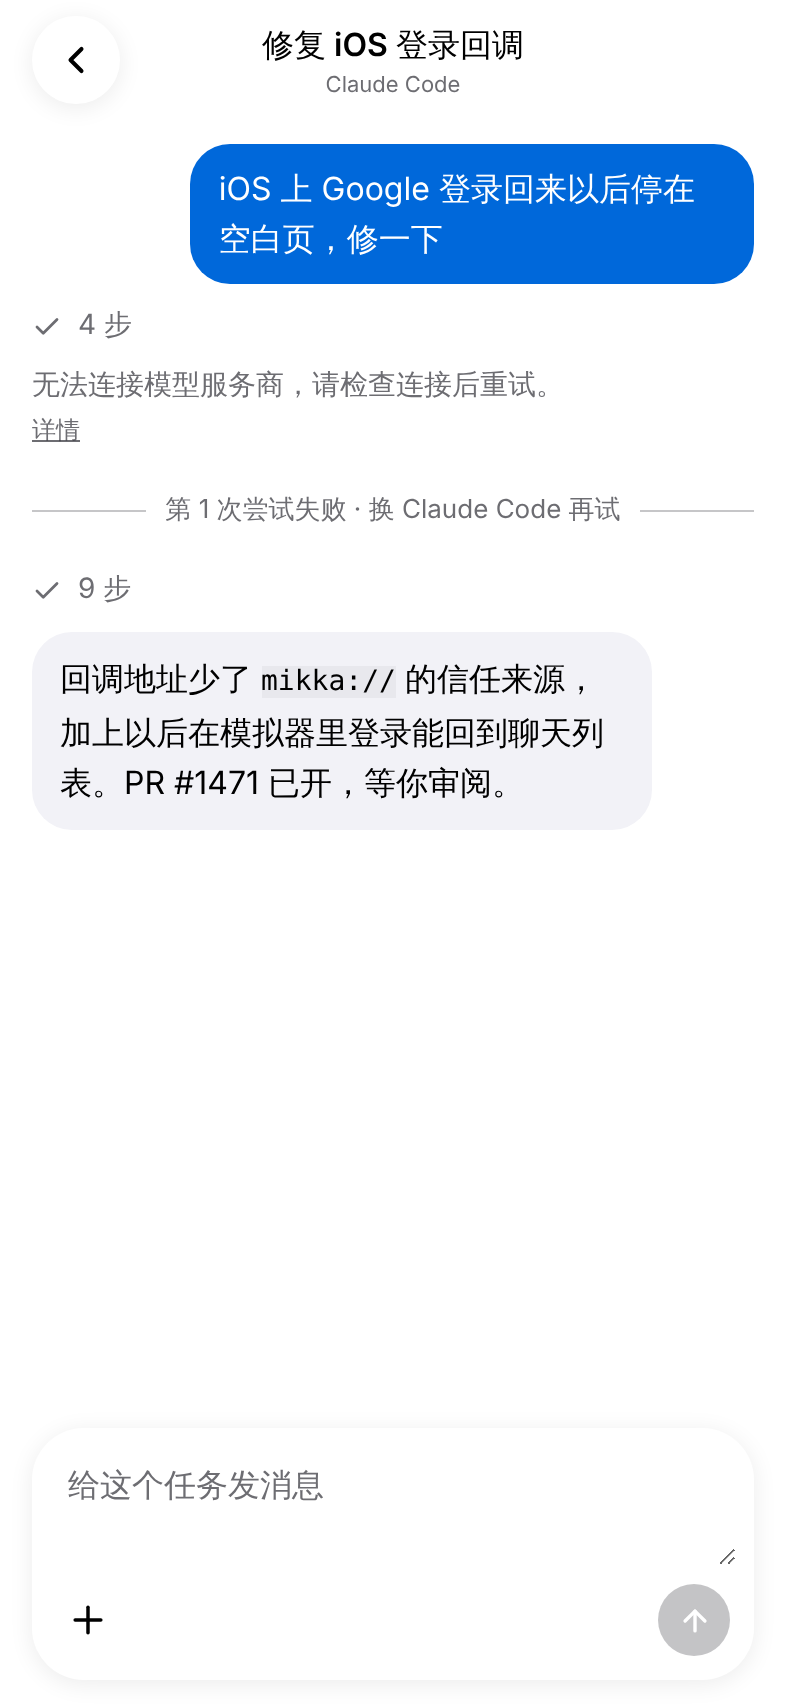
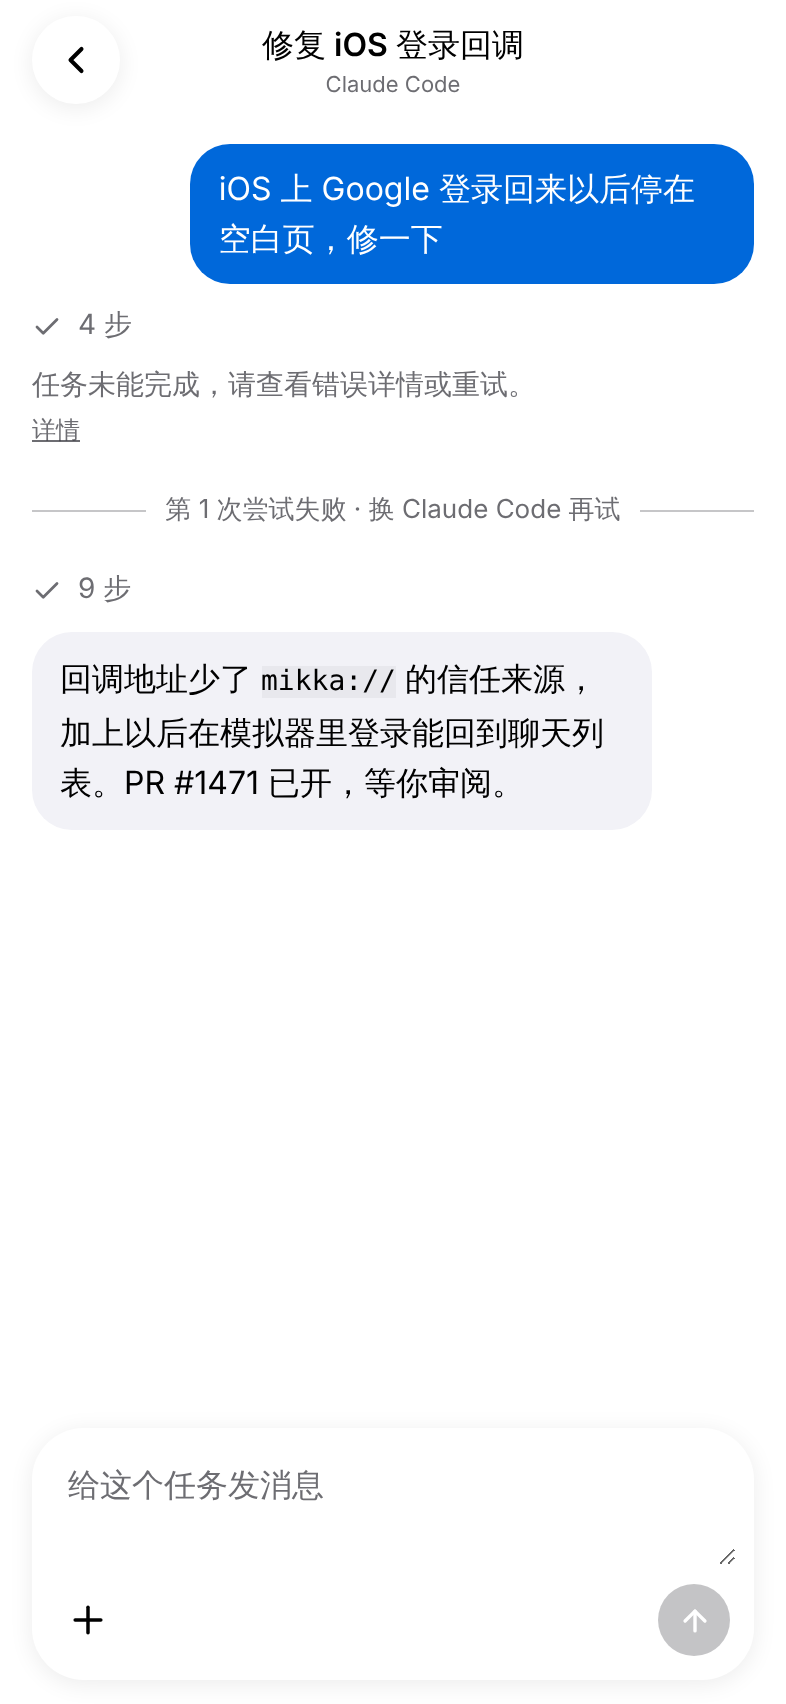
fix(mobile): a finished attempt names its PR; sandbox failures read as the generic cause (#1671)
- 活动 shows 「完成 · 开了 PR #N」 once the API sends an attempt's
  `pullRequest` (the Codex follow-up adds it).
- The screenshot fixture's failed attempt is a real-shaped
  `agent_exited … (E_SANDBOX_NETWORK)` error again. Its code is not
  registered, so it reads as run_failed's generic words: the sandbox's
  network is not the model provider's, and no other code's words are
  borrowed. A test pins that case.

Claude-Session: https://claude.ai/code/session_01XDndLScfAwEtstMEvukXBZ

Changed region(s): [[0.0305, 0.2177, 0.6718, 0.2488]]

diff --git a/apps/mobile/features/tasks/screens/task-screen.tsx b/apps/mobile/features/tasks/screens/task-screen.tsx
@@ -120,7 +120,7 @@ function ActivityRow({ item, last, onOpen }: { item: TaskActivity; last: boolean
           {item.kind === 'attempt' ? `第 ${item.n} 次尝试` : item.kind === 'replaced' ? '换了新线程' : item.by ? `${item.by} 创建了任务` : '创建了任务'}
         </Text>
         <Text style={styles.activityMeta} numberOfLines={1}>
-          {result && item.kind === 'attempt' ? [ATTEMPT_WORD[result], HARNESS[item.harness] ?? item.harness, day(item.createdAt)].filter(Boolean).join(' · ') : day(item.createdAt)}
+          {result && item.kind === 'attempt' ? [ATTEMPT_WORD[result], result === 'done' && item.pullRequest ? `开了 PR #${item.pullRequest.number}` : null, HARNESS[item.harness] ?? item.harness, day(item.createdAt)].filter(Boolean).join(' · ') : day(item.createdAt)}
         </Text>
       </View>
       {onOpen ? <ChevronRight size={18} color={colors.tertiary} strokeWidth={2} /> : null}

diff --git a/apps/mobile/lib/types.ts b/apps/mobile/lib/types.ts
@@ -204,7 +204,9 @@ export interface TaskSchedule { label: string; nextAt: string | null }
 export type TaskActivity =
   | { kind: 'attempt'; runId: string; n: number; group: ThreadGroup; harness: string; createdAt: string; failed: boolean
     /** Its own result (2026-11-07-2230); absent from an older server. */
-    state?: 'running' | 'waiting' | 'failed' | 'blocked' | 'done' }
+    state?: 'running' | 'waiting' | 'failed' | 'blocked' | 'done'
+    /** The pull request it opened; absent from an older server. */
+    pullRequest?: { number: number; url?: string | null } | null }
   | { kind: 'replaced'; runId: string; createdAt: string }
   | { kind: 'created'; by: string | null; createdAt: string }
 
